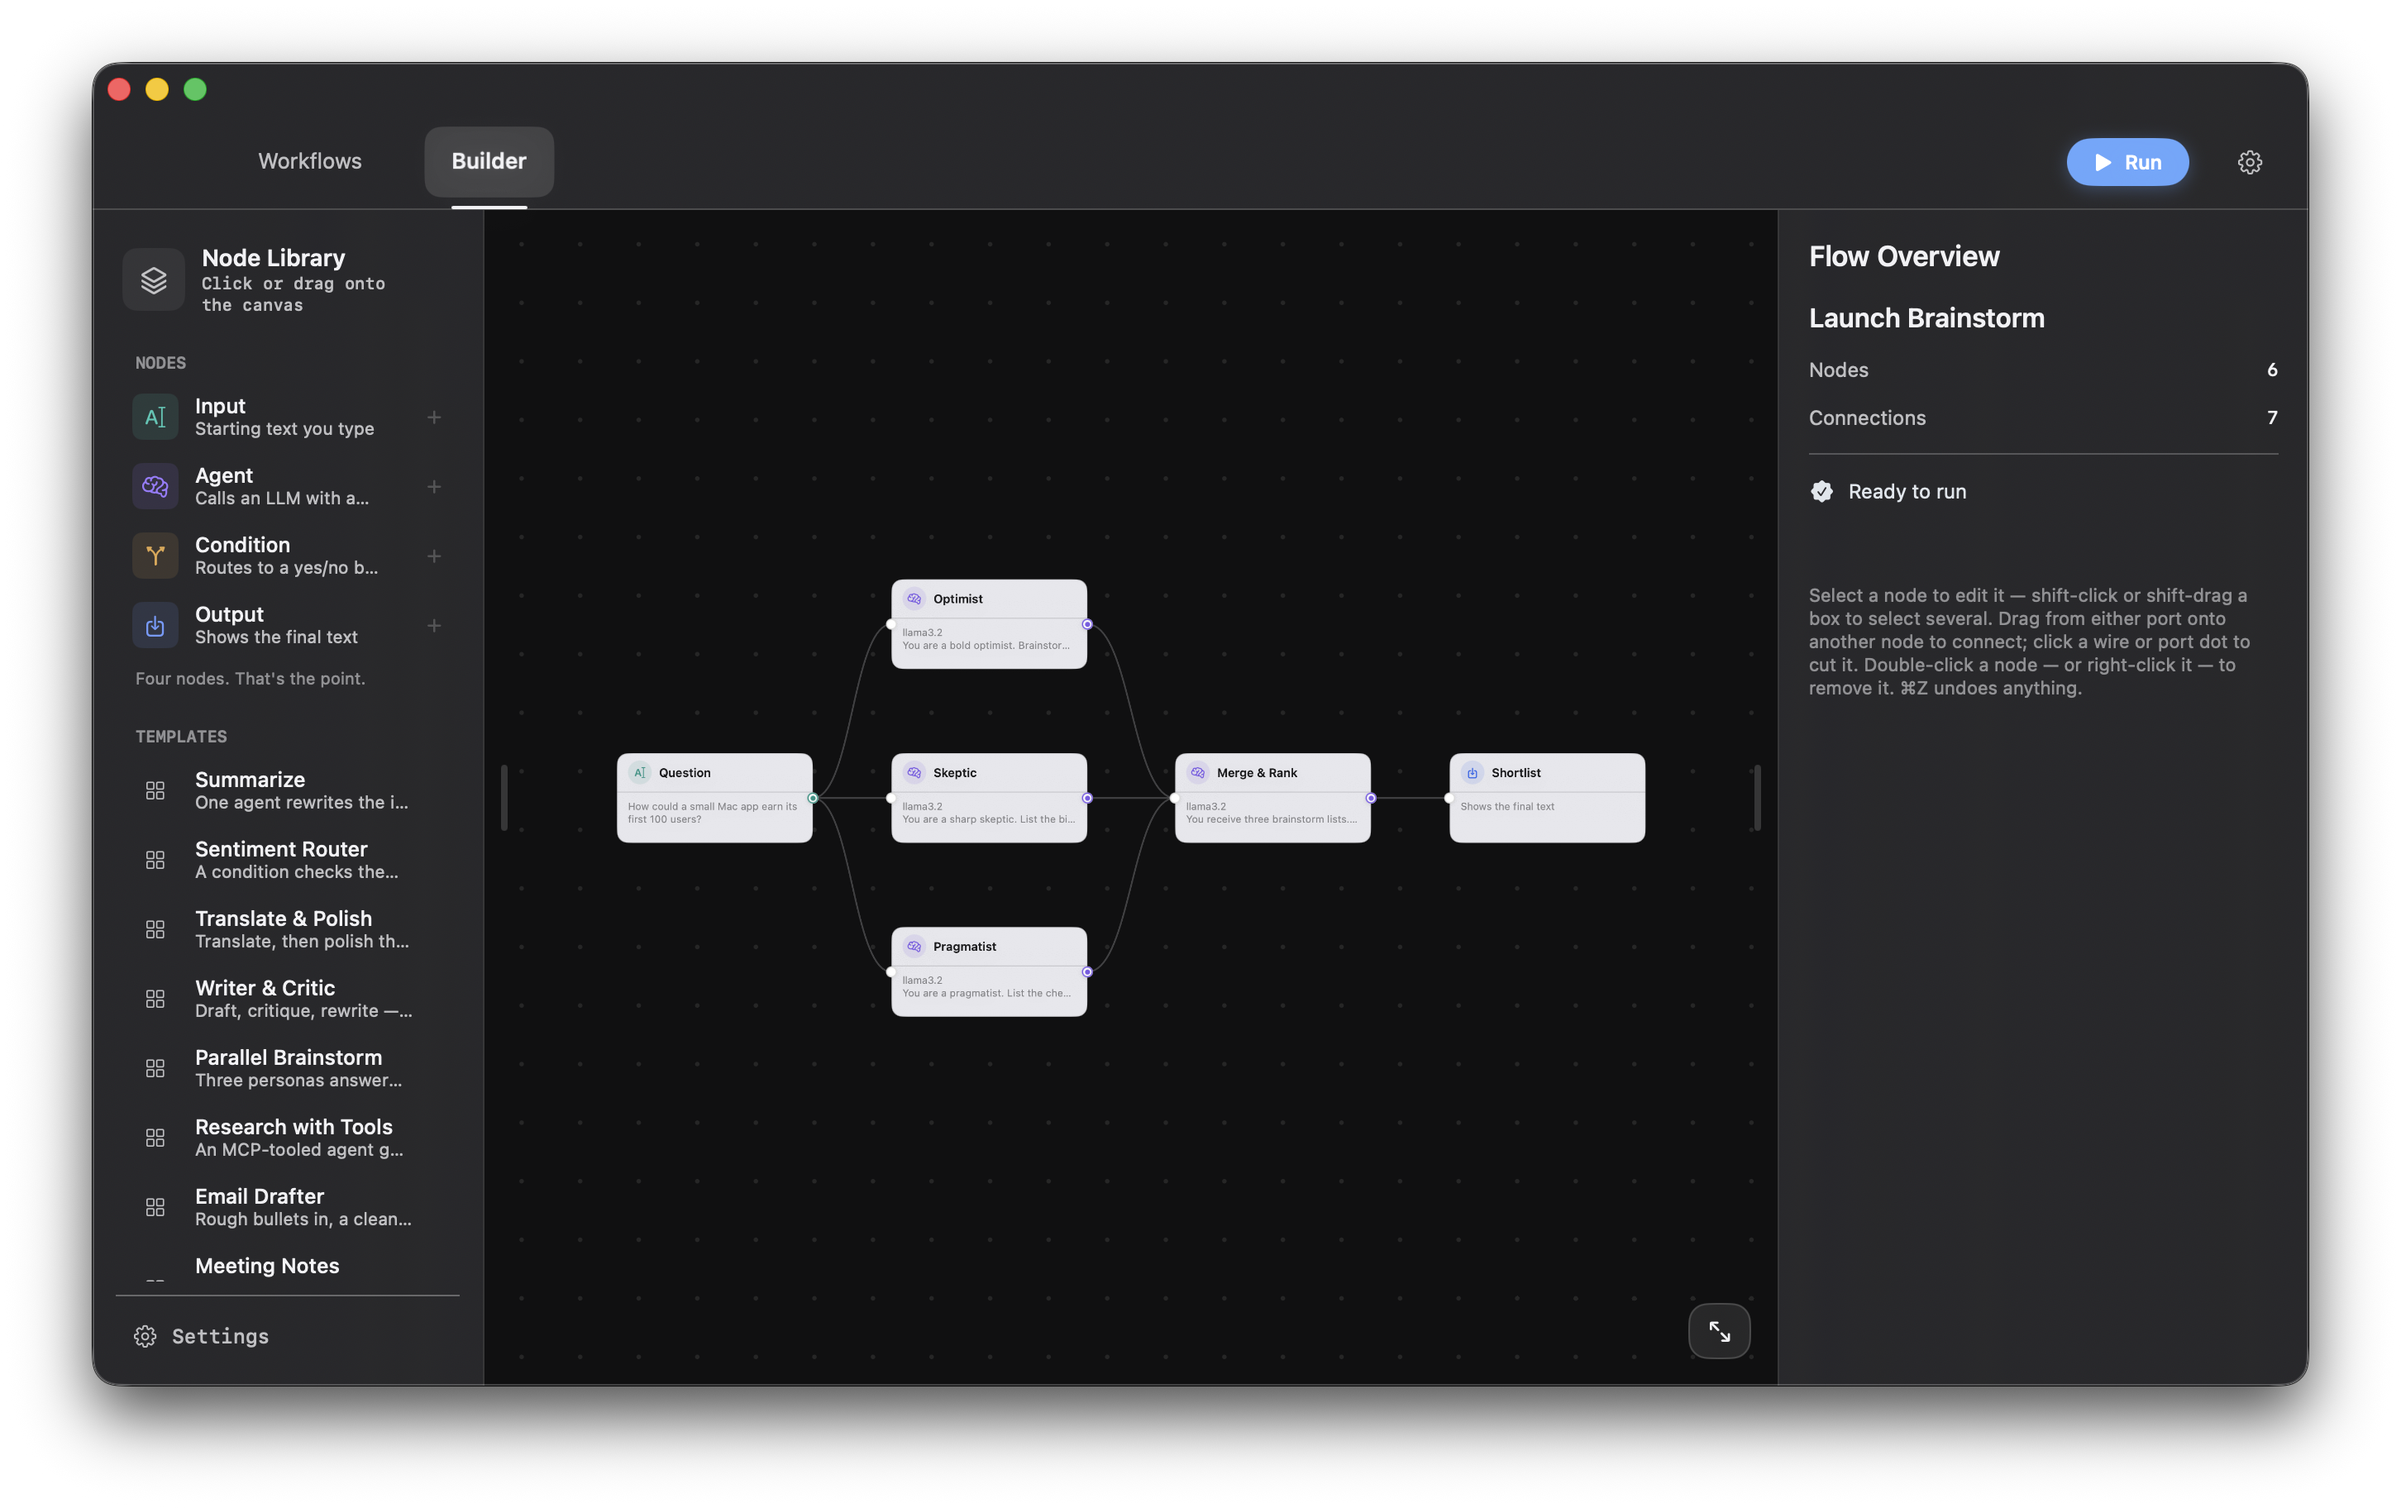
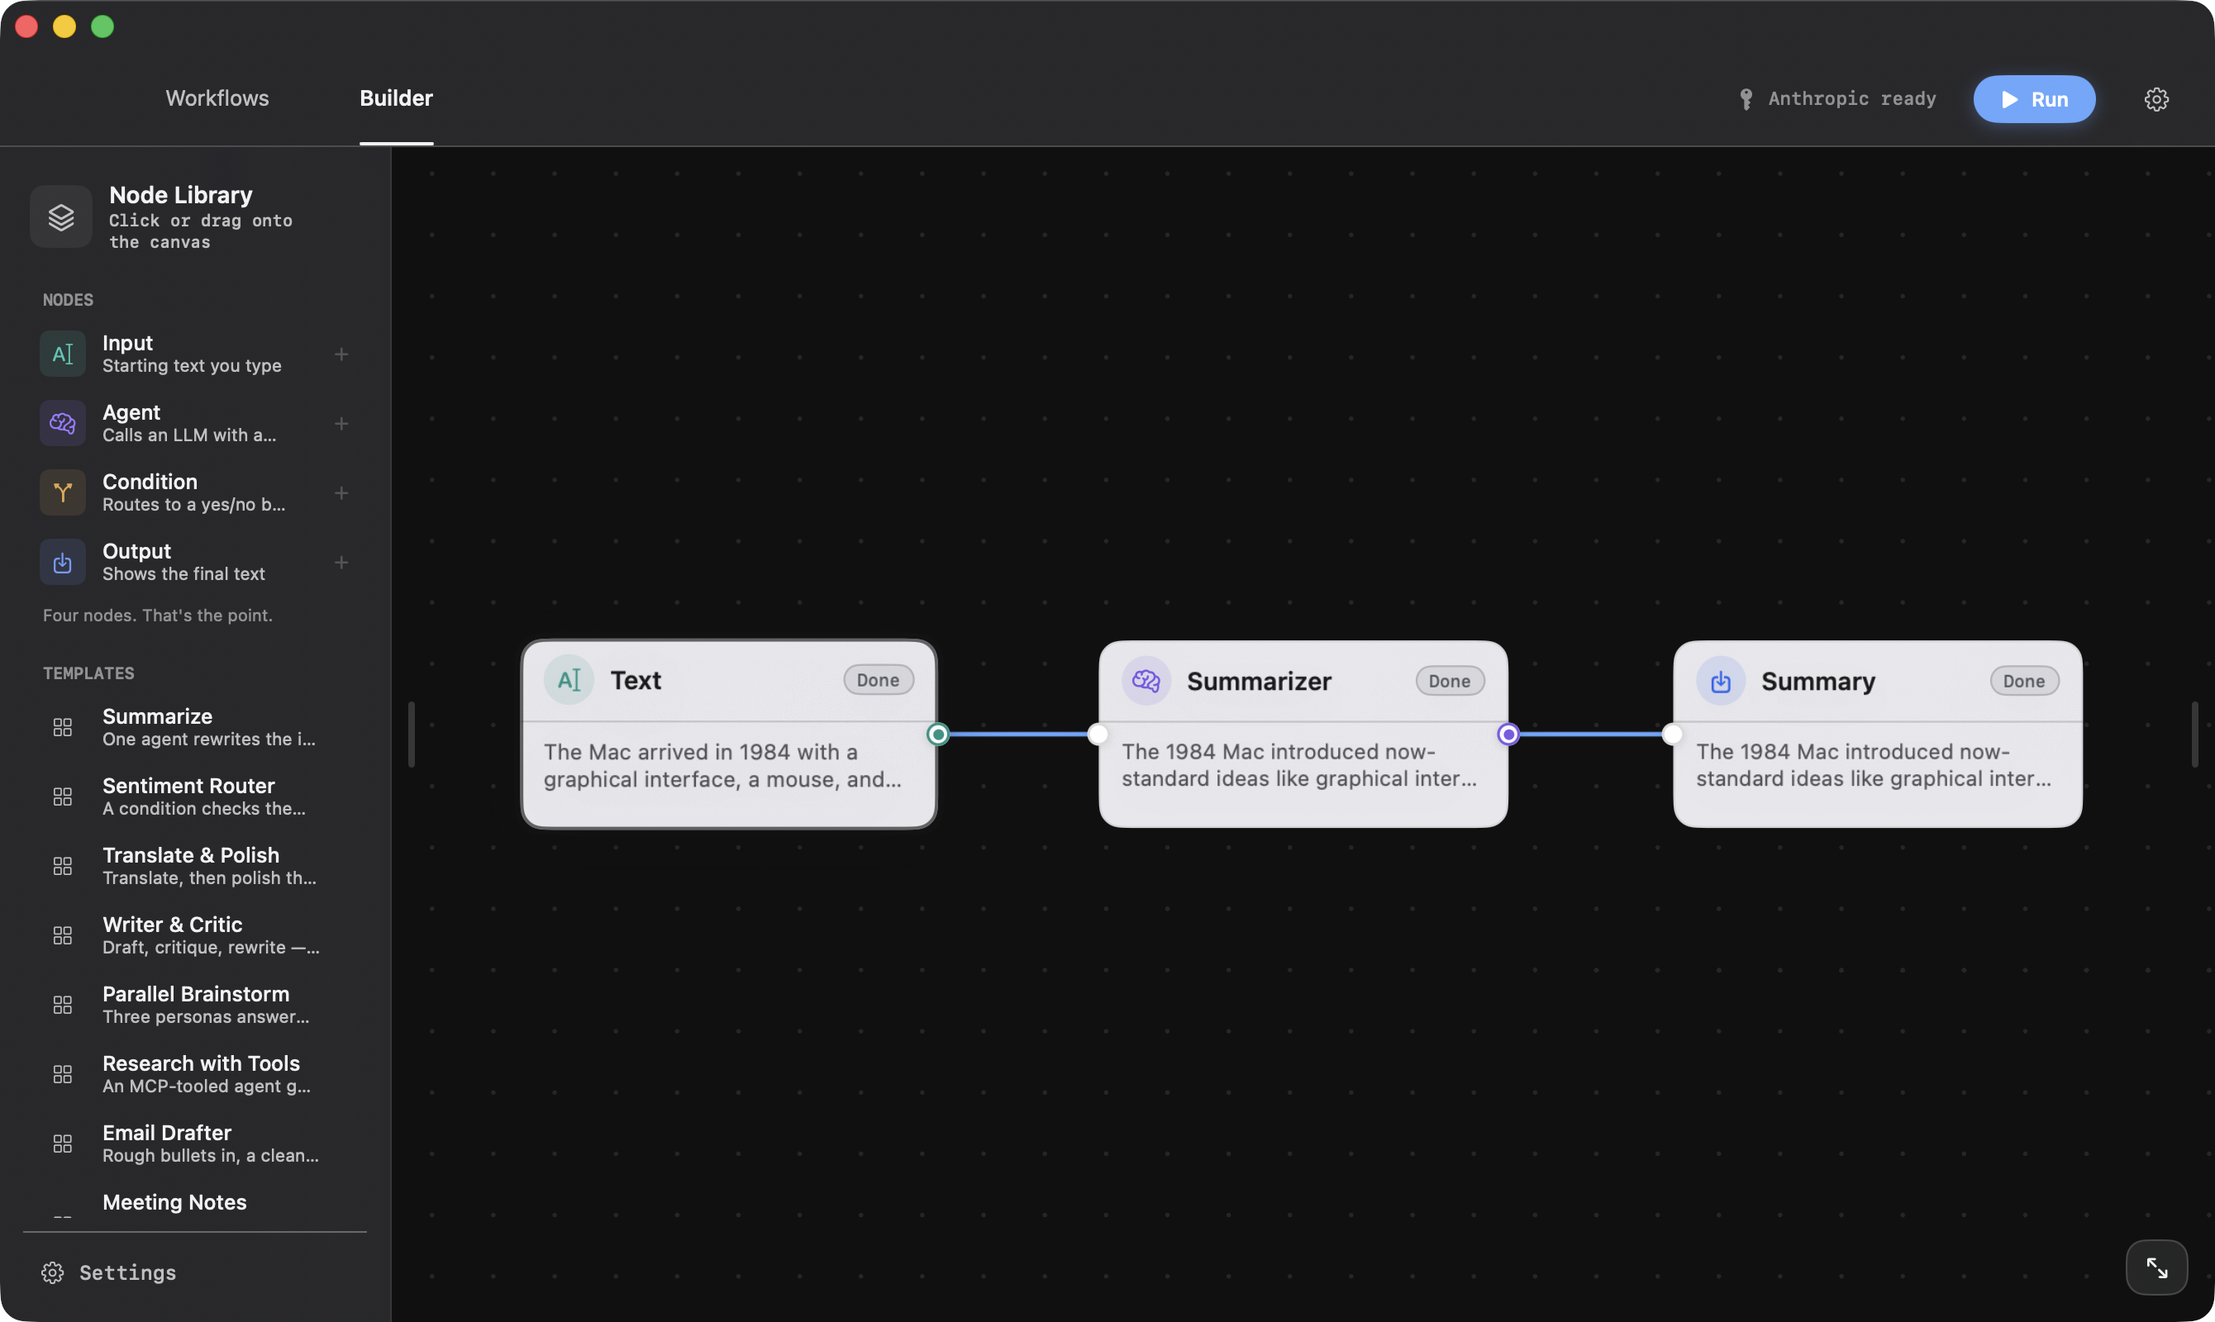
README: lead with a finished run, not an idle canvas
The hero is now a flow that has actually run — Done chips, live wires,
real output on the cards. The fan-out shot moves down to where the text
talks about concurrency.

diff --git a/README.md b/README.md
@@ -24,6 +24,8 @@ Branches that don't depend on each other run **concurrently**, several inputs
 can fan into one node (they're joined in edge order), and the branch a
 condition didn't take is marked skipped rather than silently dropped.
 
+![One question, three agents in parallel, one merge](docs/concurrency.png)
+
 ## Why so few nodes?
 
 Because the vocabulary is small, not the ceiling. An Agent reaches anything
